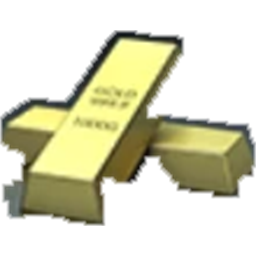
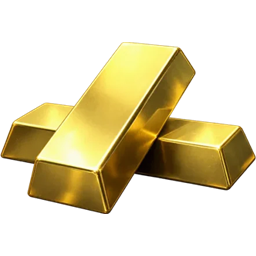
Blood Strike: sharp gold bars picture for the 105 and 51 packs

diff --git a/src/lib/games.ts b/src/lib/games.ts
@@ -95,7 +95,7 @@ export function findGame(id: string | undefined): Game | undefined {
 
 /** In-game pictures of single currency packages, by game and package amount. Uploads from /admin win. */
 export const packagePictures: Record<string, Record<string, string>> = {
-  bloodstrike: { "105": bs105, "320": bs320, "540": bs540, "1100": bs1100, "2260": bs2260, "5800": bs5800 },
+  bloodstrike: { "51": bs105, "105": bs105, "320": bs320, "540": bs540, "1100": bs1100, "2260": bs2260, "5800": bs5800 },
 };
 
 /** The main game of a server variant (same Player ID rules and name check). */
